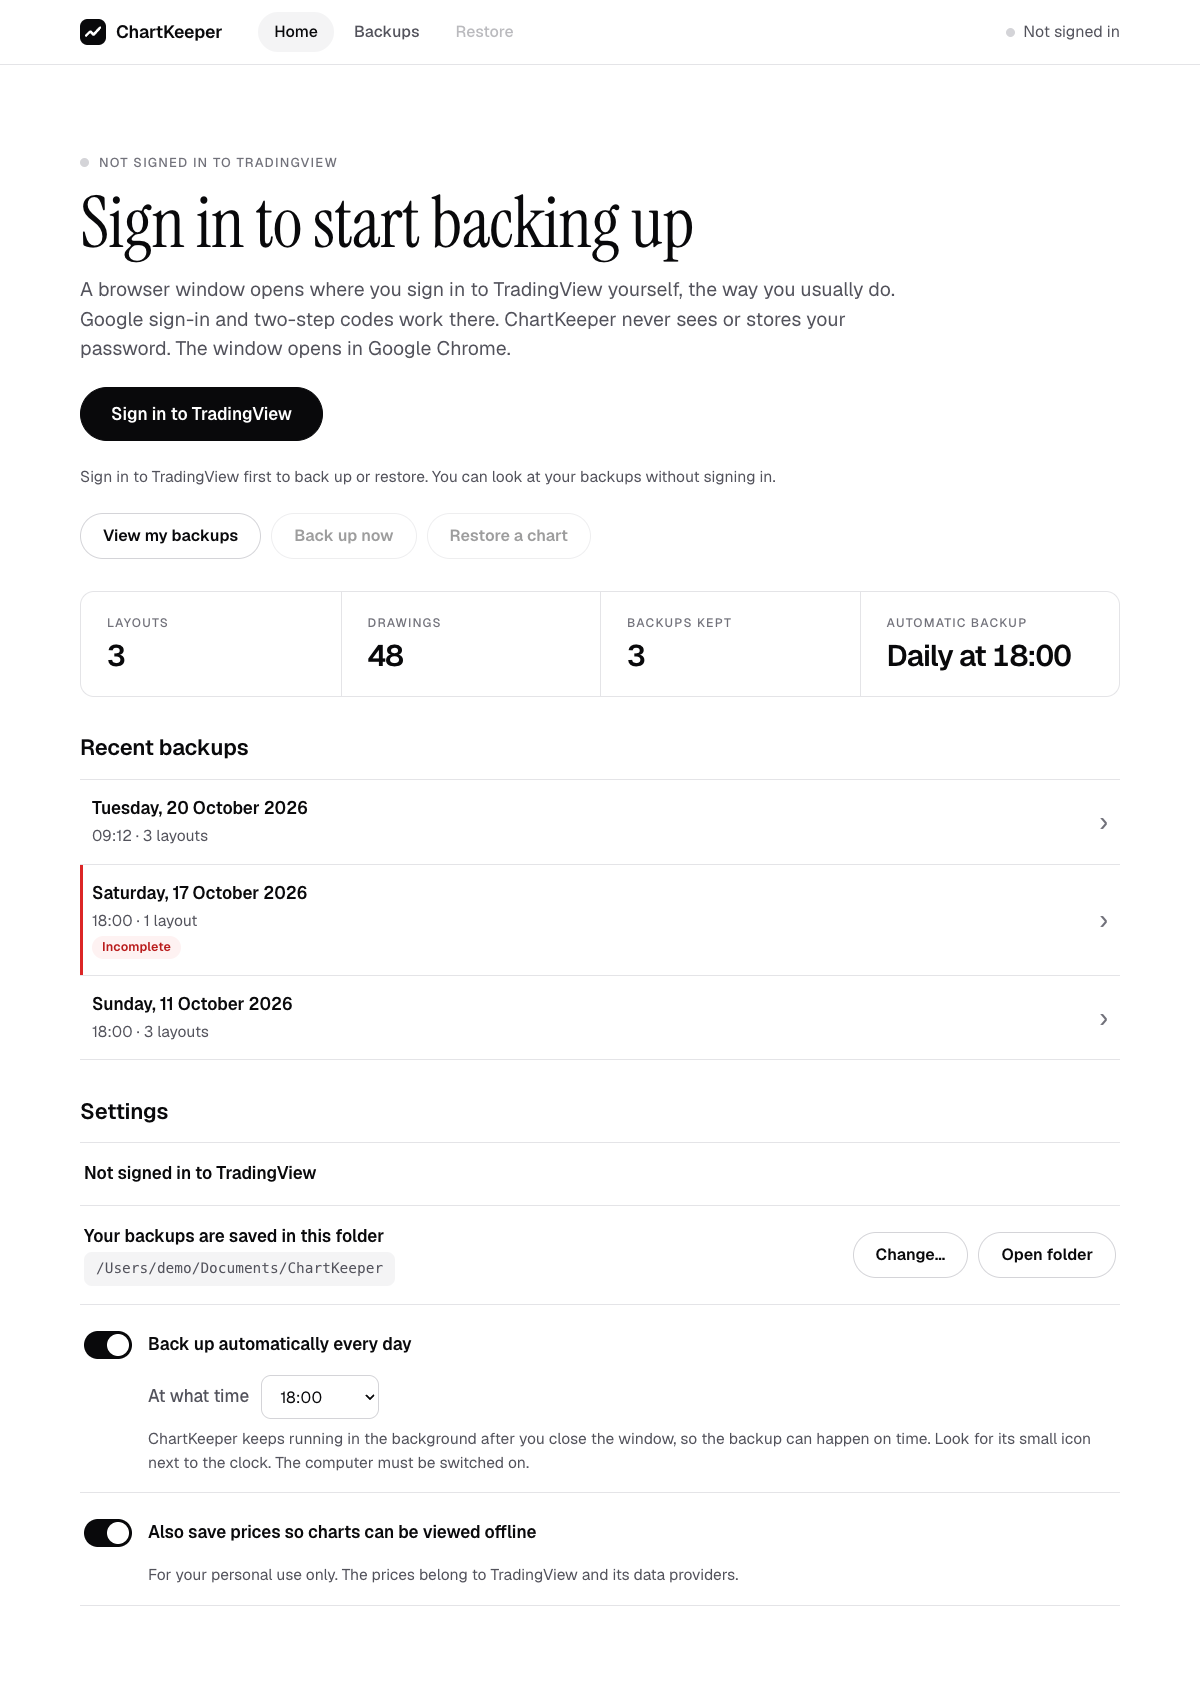
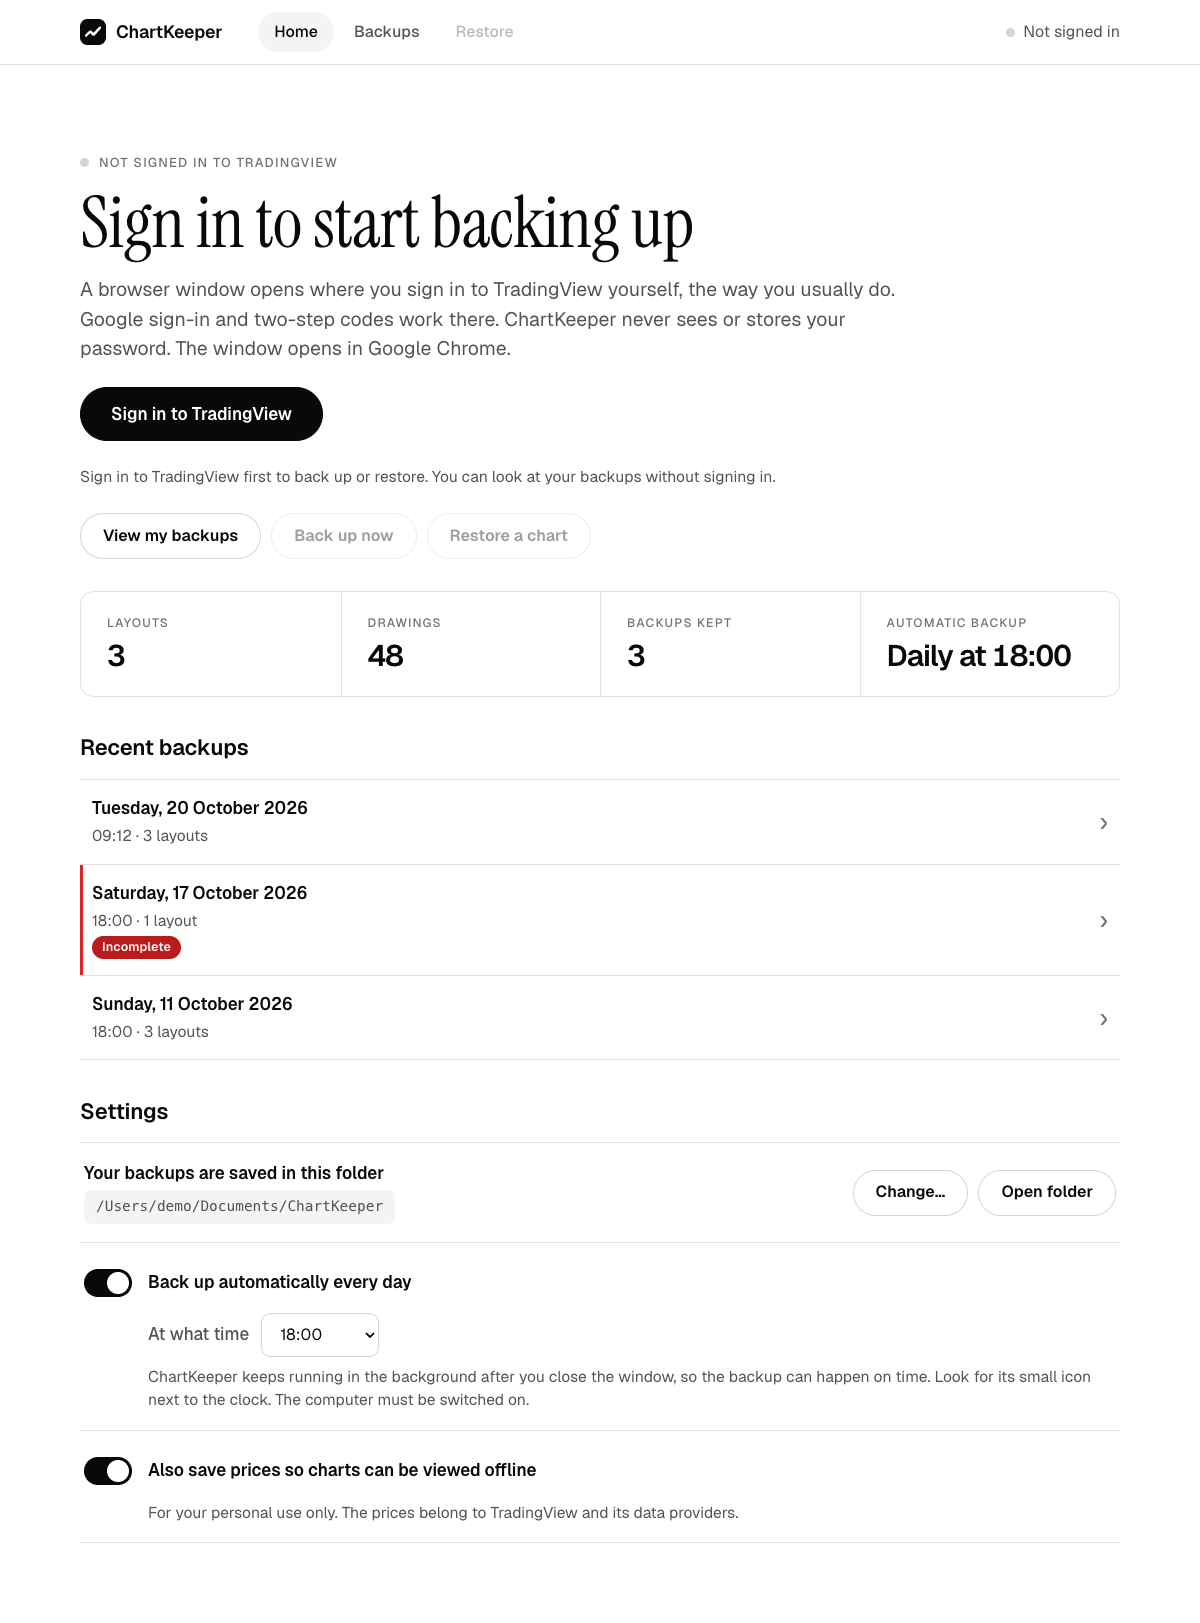
Keep the incomplete badge solid red, and say 'not signed in' once on home

diff --git a/src/renderer/ui/home.ts b/src/renderer/ui/home.ts
@@ -142,10 +142,11 @@ export function homeScreen(ctx: Ctx, opts: { startSignIn?: boolean } = {}): Scre
     return h('section', { class: 'section settings', attrs: { 'aria-labelledby': 'settings-title' } },
       h('div', { class: 'section-head' }, h('h2', { id: 'settings-title' }, t('settings.title'))),
       h('div', { class: 'rows' },
-        h('div', { class: 'row setting', attrs: { 'aria-label': s.signedIn ? t('signin.signedIn') : t('signin.notSignedIn') } },
-          h('div', { class: 'row-main' },
-            h('p', { class: 'setting-label signin-status' }, s.signedIn && s.username ? t('signin.signedInAs', { name: s.username }) : s.signedIn ? t('signin.signedIn') : t('signin.notSignedIn'))),
-          s.signedIn ? button(t('signin.signOut'), async () => ctx.update(await ctx.api.signOut()), { id: 'signout', disabled: s.busy !== null }) : null),
+        s.signedIn
+          ? h('div', { class: 'row setting', attrs: { 'aria-label': t('signin.signedIn') } },
+              h('div', { class: 'row-main' }, h('p', { class: 'setting-label signin-status' }, s.username ? t('signin.signedInAs', { name: s.username }) : t('signin.signedIn'))),
+              button(t('signin.signOut'), async () => ctx.update(await ctx.api.signOut()), { id: 'signout', disabled: s.busy !== null }))
+          : null,
         h('div', { class: 'row setting' },
           h('div', { class: 'row-main' },
             h('p', { class: 'setting-label', id: 'folder-label' }, t('settings.folder')),

diff --git a/src/renderer/styles.css b/src/renderer/styles.css
@@ -183,7 +183,7 @@ ul { margin: 0; }
   padding: 2px 10px; border-radius: 999px; vertical-align: middle; white-space: nowrap;
   background: var(--surface-2); color: var(--muted);
 }
-.badge-error { background: var(--err-soft); color: var(--err); }
+.badge-error { background: var(--err); color: #fff; }
 .badge-ok { background: var(--ok-soft); color: var(--ok); margin-left: 10px; }
 .badge-muted { background: var(--surface-2); color: var(--muted); }
 .badge-added { background: var(--ok-soft); color: var(--ok); }
